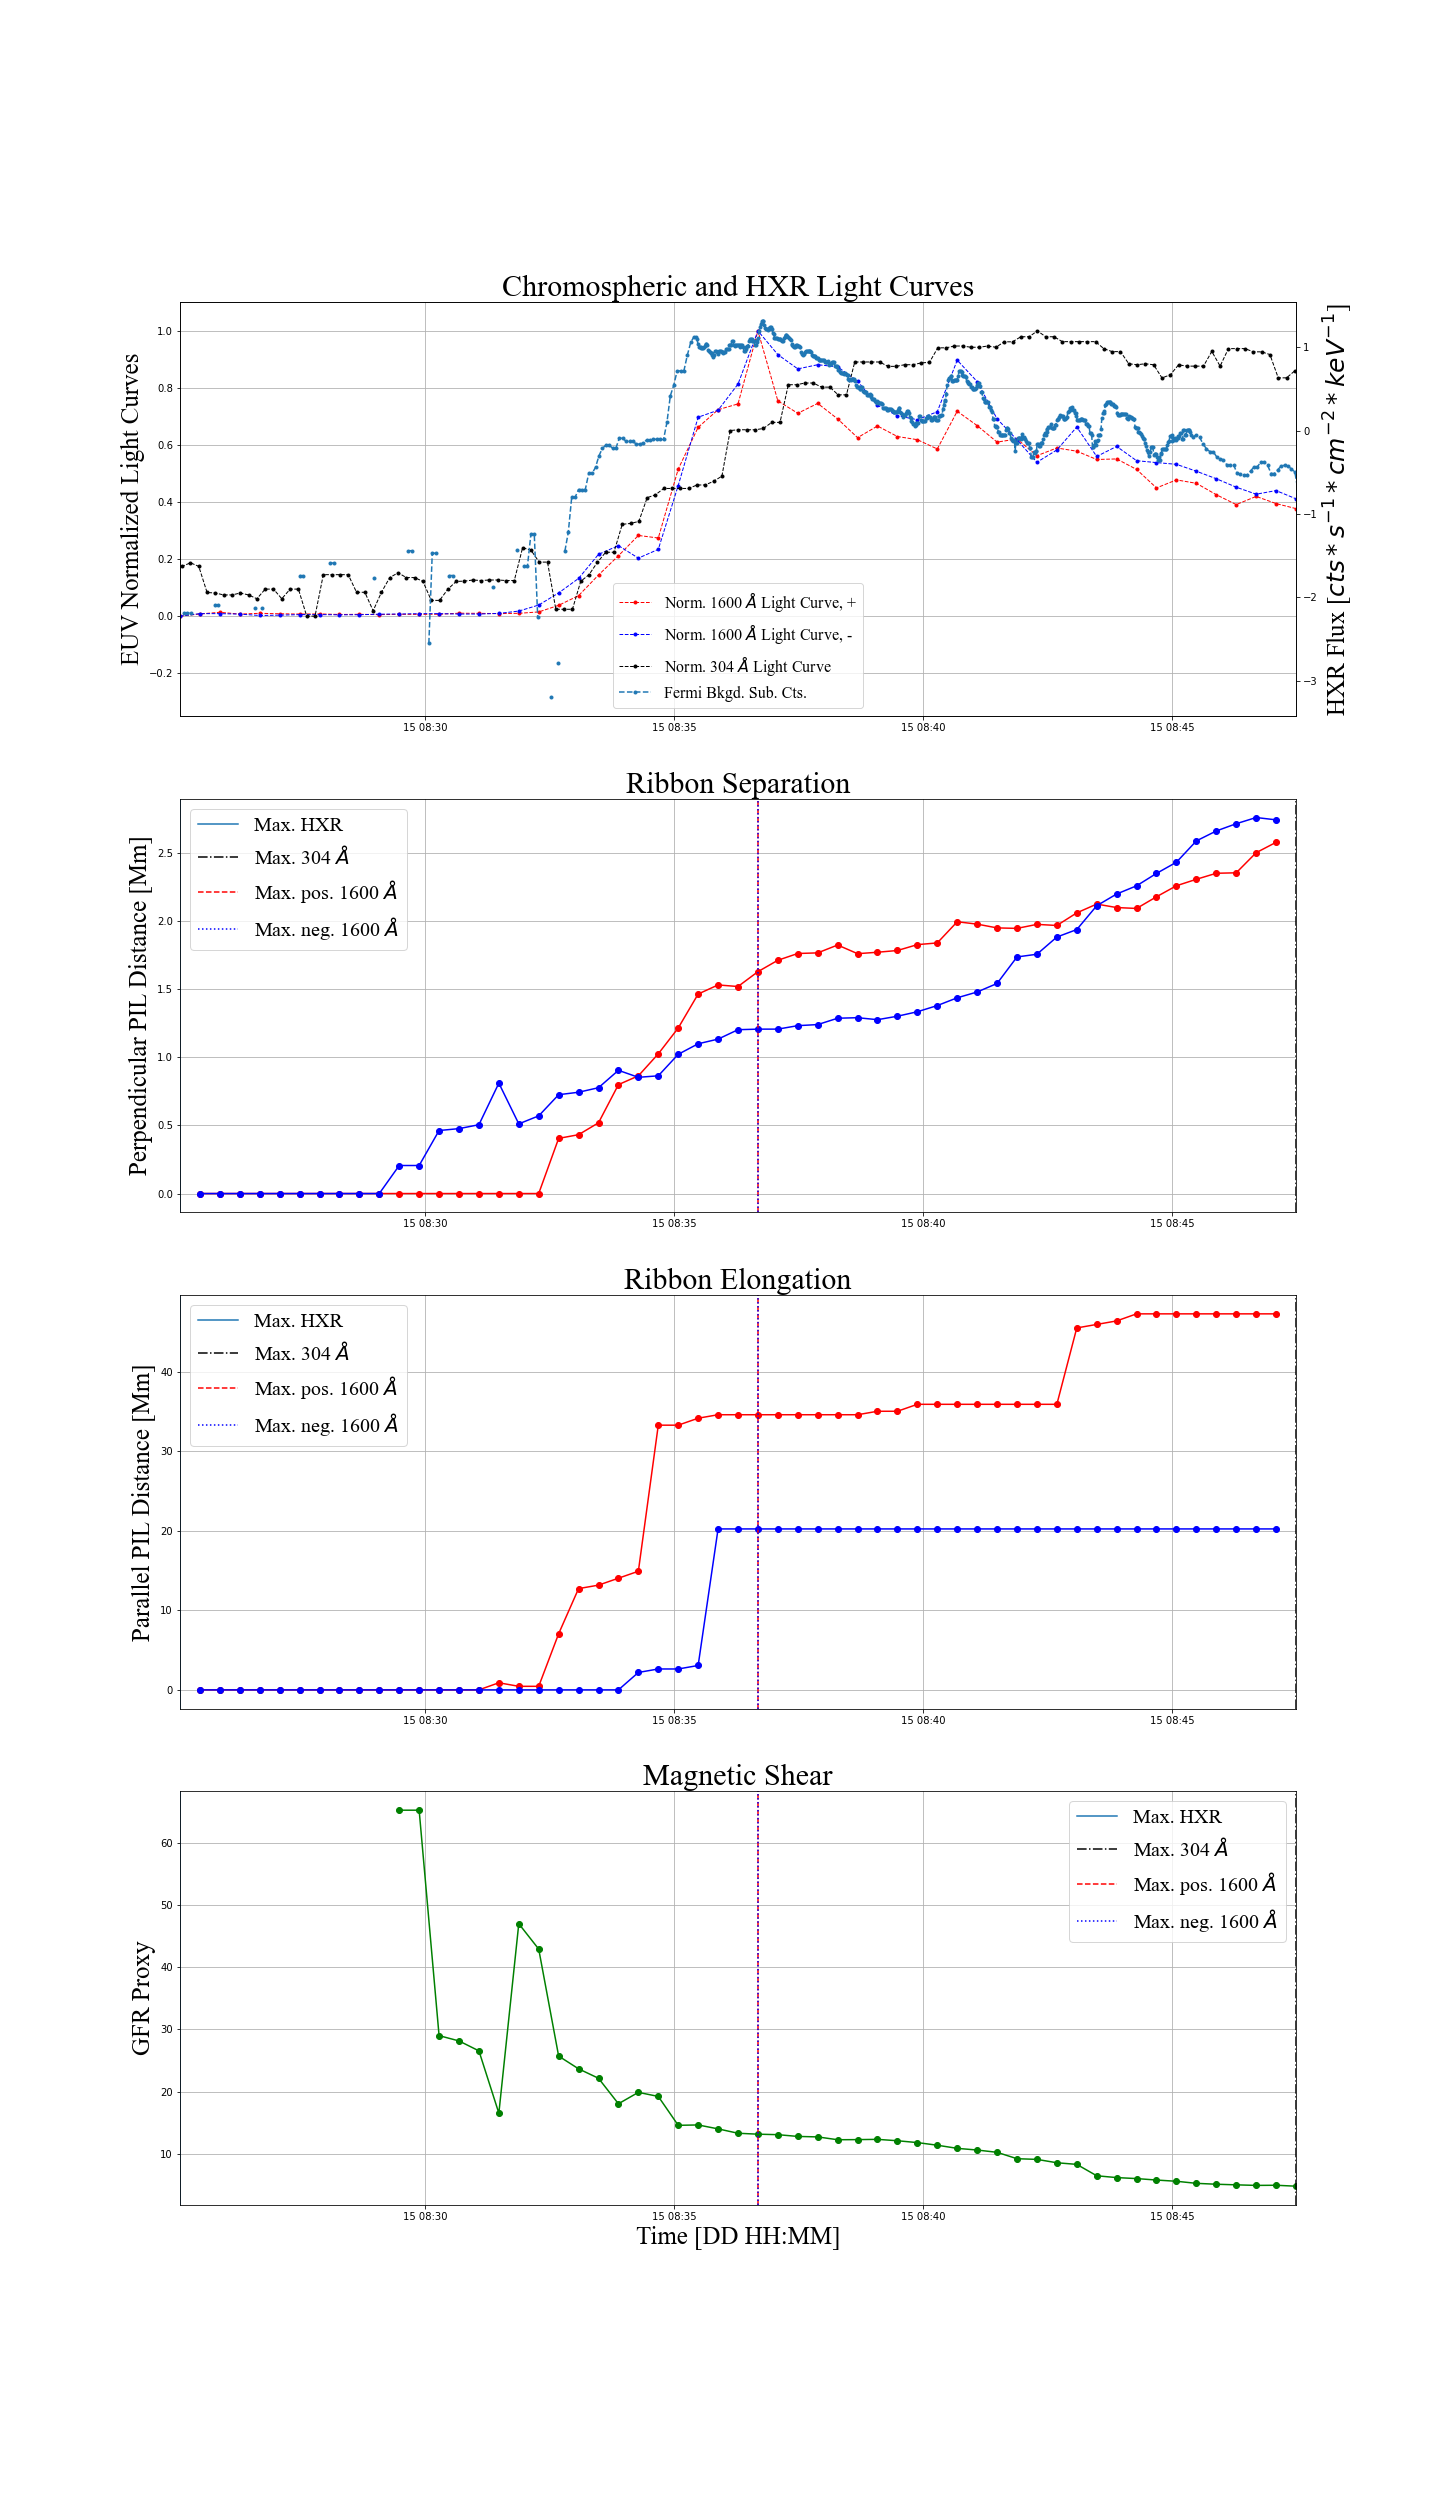
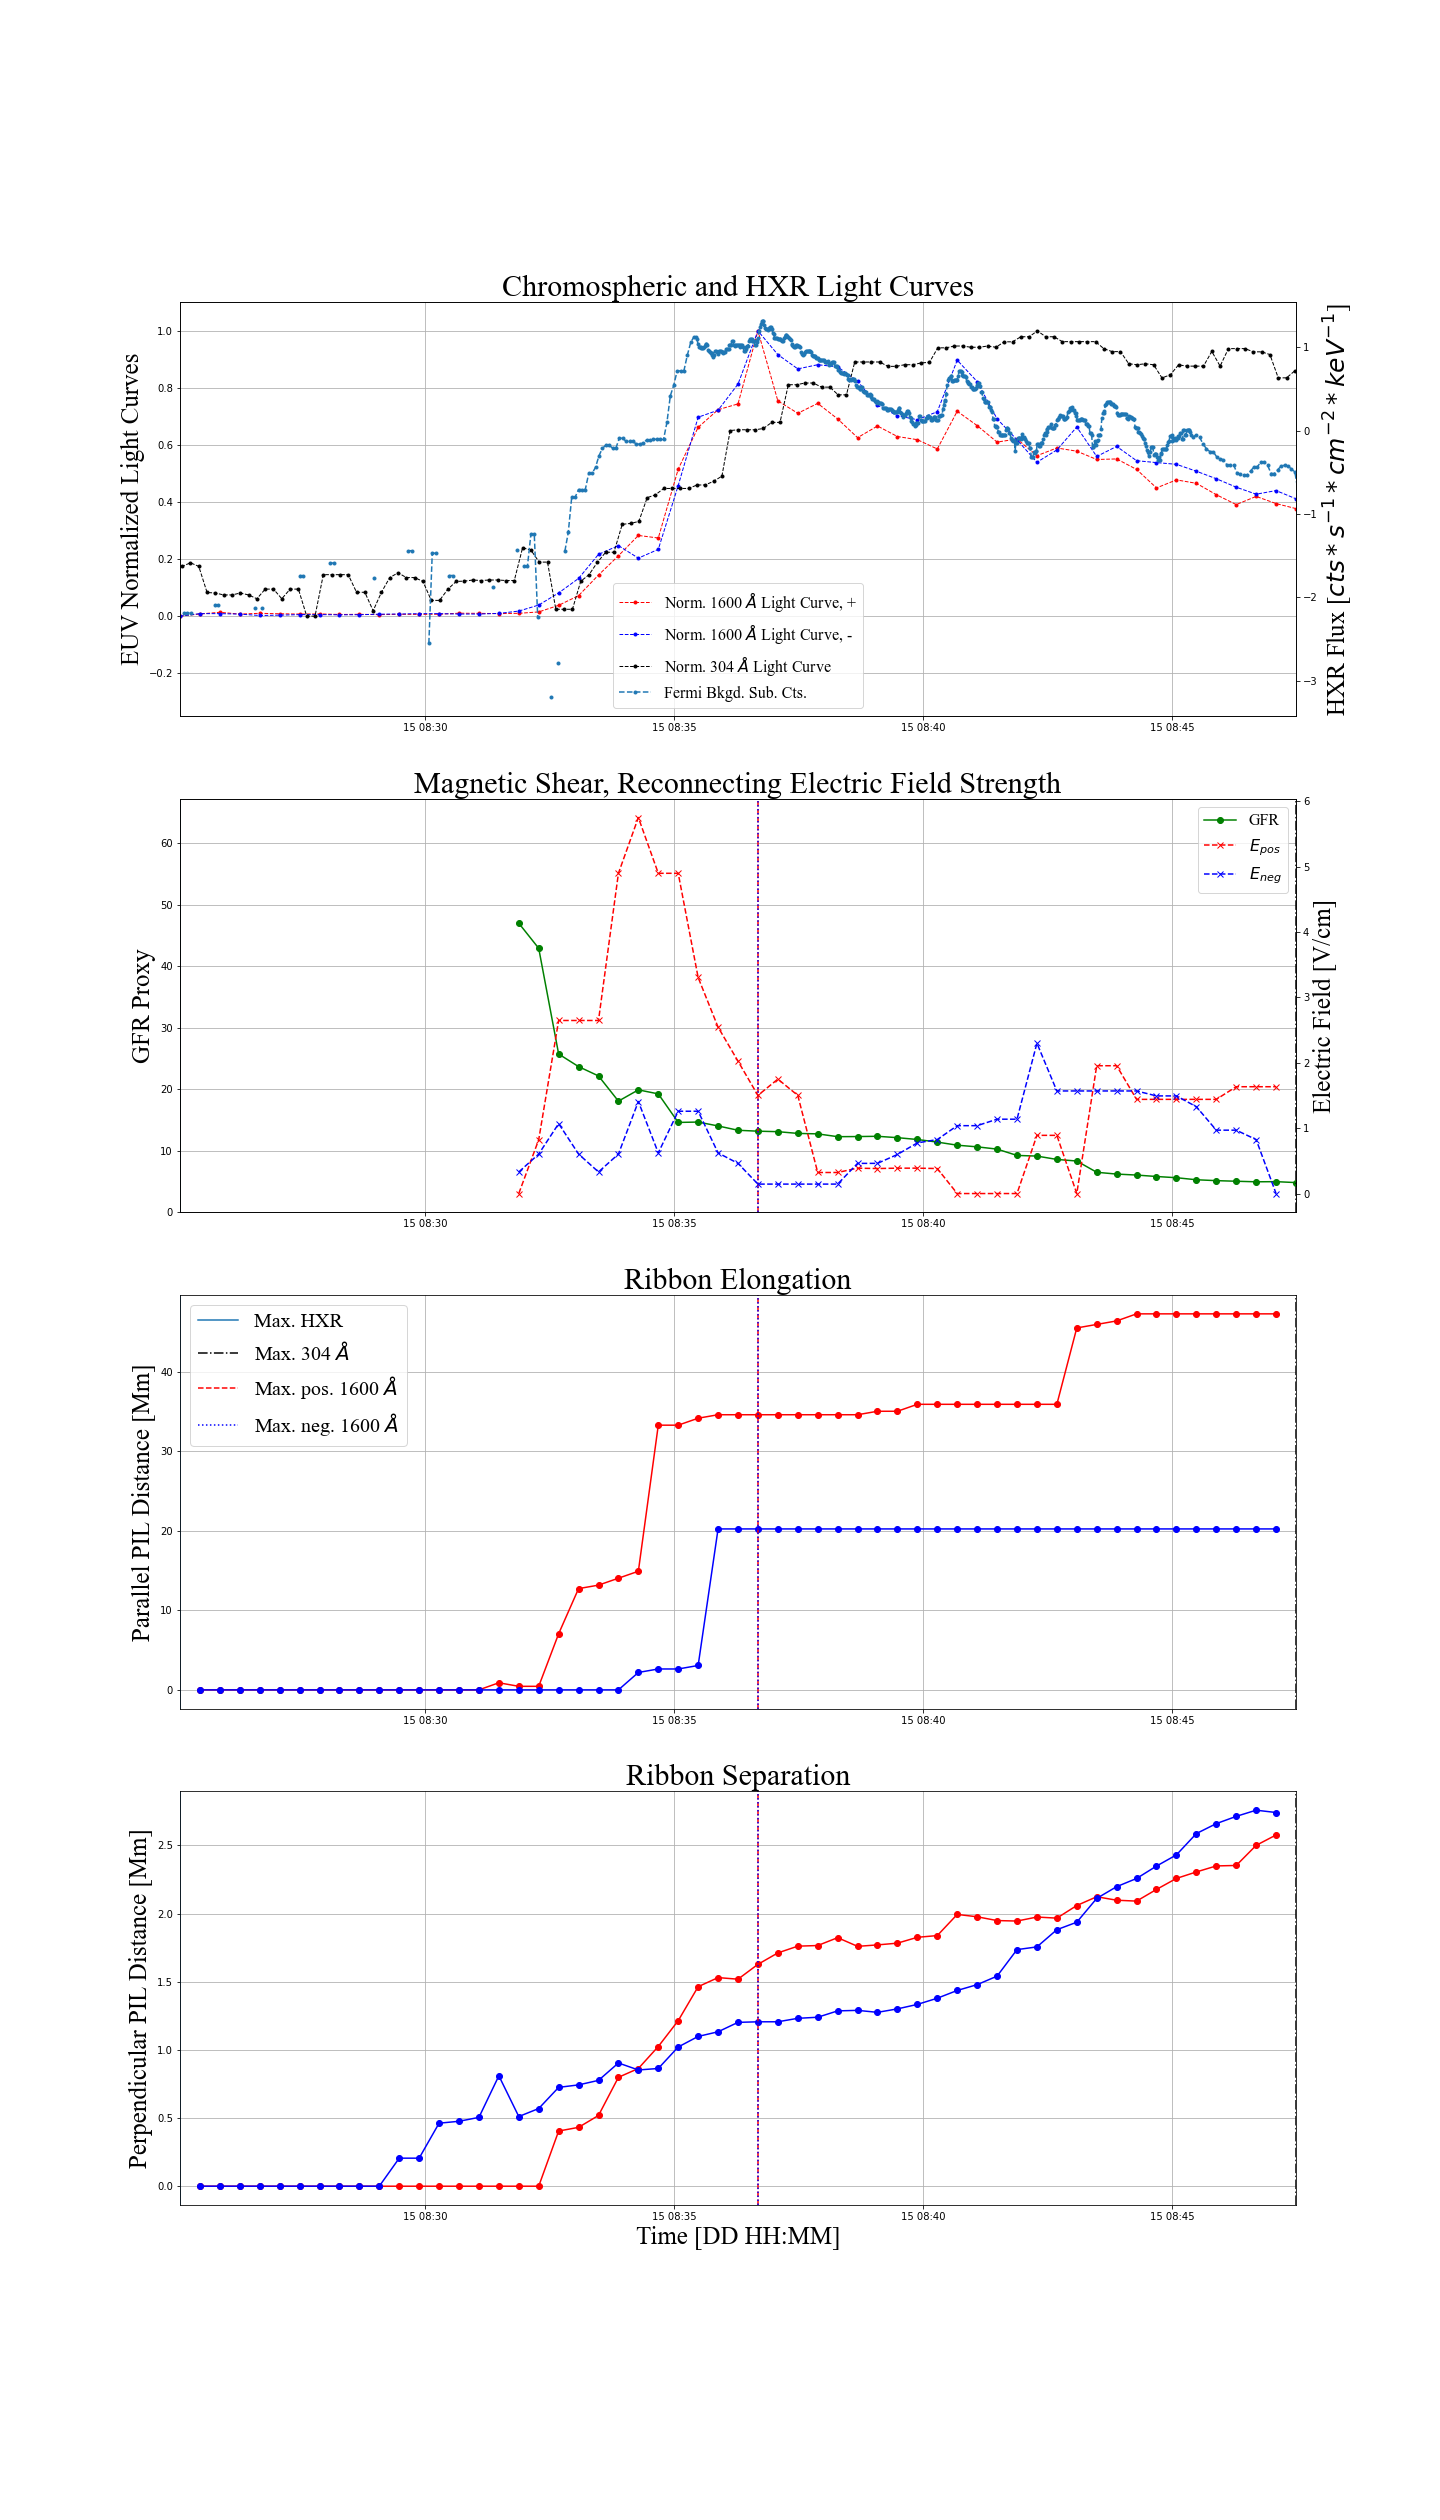
low2 four-panel edits

diff --git a/low2_process.py b/low2_process.py
@@ -290,7 +290,14 @@ raw_hxr_sum, cspec_hxr_sum, fermitimes = fl_funcs.process_fermi(daystr, mostr,
 
 indstrt_sep = 1
 indstrt_elon = 1
-gfr_trans = 1
+gfr_trans = 5
+# Electric field computation
+
+E_pos, E_neg, E_rat, time_E = fl_funcs.E_field_det(conv_f, distpos_med,
+                                                   distneg_med, timelab, 
+                                                   hmi_dat, pos_rem, neg_rem, 
+                                                   flnum, dt1600, times,
+                                                   startind=gfr_trans)
 
 fl_funcs.plt_fourpanel(times, right_gfr, left_gfr, flnum, dt1600, time304,
                   filter_304, lens_pos_Mm, lens_neg_Mm, distpos_Mm, distneg_Mm,
@@ -301,12 +308,6 @@ fl_funcs.plt_fourpanel(times, right_gfr, left_gfr, flnum, dt1600, time304,
                   sepperiod_start_neg, sepperiod_end_neg, exp_ind,
                   s304, e304, pos1600, neg1600, dn1600, indstrt_elon, 
                   indstrt_sep, fermitimes, raw_hxr_sum, cspec_hxr_sum,
-                  gfr_trans, low_hxr=6100, high_hxr=7200,  period_flag = 0)
+                  gfr_trans, E_pos, E_neg, time_E, low_hxr=6100, 
+                  high_hxr=7200,  period_flag = 0)
 
-# Electric field computation
-
-E_pos, E_neg, E_rat, time_E = fl_funcs.E_field_det(conv_f, distpos_med,
-                                                   distneg_med, timelab, 
-                                                   hmi_dat, pos_rem, neg_rem, 
-                                                   flnum, dt1600, times,
-                                                   startind=1)

diff --git a/fl_funcs.py b/fl_funcs.py
@@ -4194,8 +4194,8 @@ def plt_fourpanel(times, right_gfr, left_gfr, flnum, dt1600, time304,
                                        style='normal', size=20)
     ax2.legend(prop=font, fontsize=20)    
     ax2_0 = ax2.twinx()
-    lns2 = ax2_0.plot(dt1600[gfr_trans:], E_pos, '--rx', label = '$E_{pos}$')
-    lns3 = ax2_0.plot(dt1600[gfr_trans:], E_neg, '--bx', label = '$E_{neg}$')
+    lns2 = ax2_0.plot(dt1600[gfr_trans:-1], E_pos, '--rx', label = '$E_{pos}$')
+    lns3 = ax2_0.plot(dt1600[gfr_trans:-1], E_neg, '--bx', label = '$E_{neg}$')
 
     ax2_0.set_xlim([dt1600[0], dt1600[-1]])
 
